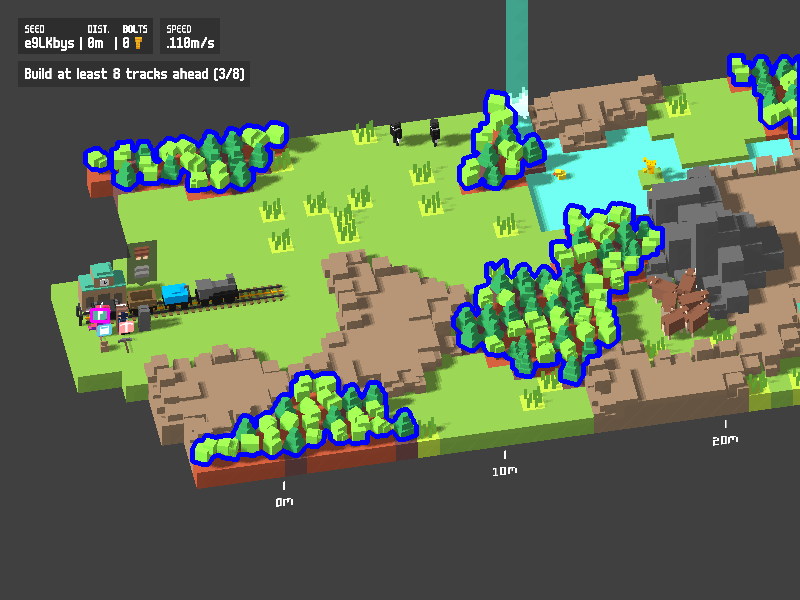
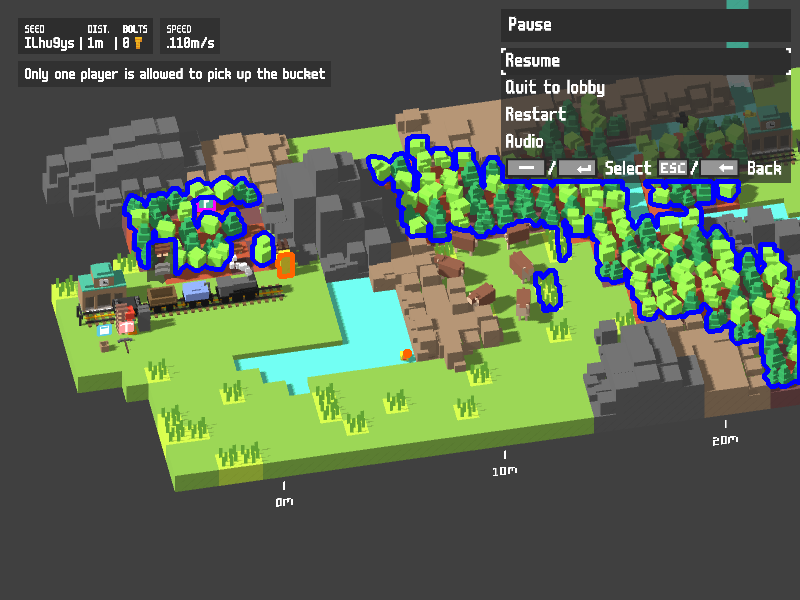
added player

diff --git a/src/debug.py b/src/debug.py
@@ -4,15 +4,17 @@ from capture import windowcapture
 import axe
 import trees
 import time
+import detectplayer
 
 # functions that allow you to work on a single screenshot instead of on the game
 
 # function that show the image
-def debug_show(path):
-    frame = cv2.imread(path, cv2.COLOR_RGB2BGR)
-    axe.draw_axe_countours(frame, cv2.cvtColor(frame, cv2.COLOR_BGR2GRAY))
-    trees.draw_trees_contours(frame, cv2.cvtColor(frame, cv2.COLOR_BGR2HSV))
-    cv2.imshow("frame", frame)
+
+def debug_show(im):
+    trees.draw_trees_contours(im, cv2.cvtColor(im, cv2.COLOR_BGR2HSV))
+    axe.draw_axe_countours(im, cv2.cvtColor(im, cv2.COLOR_BGR2GRAY))
+    detectplayer.draw_player(im, cv2.cvtColor(im, cv2.COLOR_BGR2HSV))
+    cv2.imshow("im", im)
     while True:
         k = cv2.waitKey(1) & 0xFF
         if k == 27:
@@ -20,8 +22,75 @@ def debug_show(path):
 
 
 # function that save the image
-def debug_save(path):
-    frame = cv2.imread(path, cv2.COLOR_RGB2BGR)
-    axe.draw_axe_countours(frame, cv2.cvtColor(frame, cv2.COLOR_BGR2GRAY))
-    trees.draw_trees_contours(frame, cv2.cvtColor(frame, cv2.COLOR_BGR2HSV))
-    cv2.imwrite("../data/img_masked.png", frame)
+
+def debug_save(im):
+    trees.draw_trees_contours(im, cv2.cvtColor(im, cv2.COLOR_BGR2HSV))
+    axe.draw_axe_countours(im, cv2.cvtColor(im, cv2.COLOR_BGR2GRAY))
+    detectplayer.draw_player(im, cv2.cvtColor(im, cv2.COLOR_BGR2HSV))
+    cv2.imwrite("../data/img_masked.png", im)
+
+
+# functions that take a single screnshot of the game to work on it
+
+def single_screenshot():
+    hwnd = win32gui.FindWindow(None, "Unrailed!")
+    if not hwnd:
+        raise Exception("Window not found!")
+
+    l, t, r, d = win32gui.GetClientRect(hwnd)
+    x, y = win32gui.ClientToScreen(hwnd, (l, t))
+    if win32gui.GetForegroundWindow() != hwnd:
+        win32gui.SetForegroundWindow(hwnd)
+        time.sleep(0.1)
+
+    return cv2.cvtColor(
+            np.asarray(pyautogui.screenshot(region=(
+            x, y,
+            *win32gui.ClientToScreen(hwnd,(r-x, d-y))
+            ))),
+            cv2.COLOR_RGB2BGR
+        )
+        
+def save_screenshot():
+    cv2.imwrite("../data/img_debug.png", single_screenshot())
+
+
+# functions to work on the image in BGR
+
+# function to get the pixel color
+
+def get_pixel_color(im, x, y):
+    rows, cols = im.shape[:-1]
+    if x < 0 and y < 0:
+        raise Exception("get pixel: coordinate need to be positive!")
+    if x < rows and y < cols:
+        return im[y,x]
+
+    raise Exception("get pixel: x and y out of range!")
+
+# function to set the pixel color
+
+def set_pixel_color(im, x, y, color):
+    rows, cols = im.shape[:-1]
+    if x < 0 and y < 0:
+        raise Exception("get pixel: coordinate need to be positive!")
+    if x < rows and y < cols:
+        im[y,x] = color
+        return im
+    raise Exception("get pixel: x and y out of range!")
+
+# function to set an area of pixels color
+
+def set_area_color(im, x, y, color, size):
+    half_size = size // 2
+    x_half, y_half = x - half_size, y - half_size
+    for i in range(size):
+        for j in range(size):
+            im = set_pixel_color(im, x_half + i, y_half + j, color)
+
+    return im
+
+
+# function to convert HSV percentage in 8bit value
+def convert_HSV(color):
+    return color * 255 / 100

diff --git a/src/detectplayer.py b/src/detectplayer.py
@@ -1,0 +1,32 @@
+import cv2
+import numpy as np
+
+# dark yellow in BGR : [33 148 163]
+# dark yellow in HSV : [54 80 64] in percentage
+# dark yellow in HSV : [54 200 163] in values
+
+# light yellow in BGR : [ 52 235 255]
+# light yellow in HSV : [ 54 80 100] in percentage
+# dark yellow in HSV : [54 200 255] in values
+
+# magic values for the player
+HSV_MIN_THRESH = np.array([24, 190, 150]) # Treshold values, colors in HSV
+HSV_MAX_THRESH = np.array([31, 210, 255])
+
+
+def draw_player(image, hsv_image, color=(0, 100, 255)): 
+    """Draws countours of trees found in image"""
+
+    h, w = image.shape[:-1] # remove last value because we don't need the channels
+    mask = cv2.inRange(hsv_image, HSV_MIN_THRESH, HSV_MAX_THRESH) # apply the mask with the treshold values on the hsv image and not BGR
+    
+    # get the locations of the trees then remove the grass
+
+    nb_components, output, stats, centroids = cv2.connectedComponentsWithStats(mask, 8, cv2.CV_32S)
+
+    dilated_mask = cv2.dilate(mask, np.ones((3, 3), np.uint8), iterations=2)
+
+    # get the contours then draw them
+
+    contours, hierarchy = cv2.findContours(dilated_mask, cv2.RETR_EXTERNAL, cv2.CHAIN_APPROX_NONE)
+    cv2.drawContours(image, contours, -1, color, 3)

diff --git a/src/main.py b/src/main.py
@@ -3,6 +3,7 @@ import numpy as np
 from capture import windowcapture
 import axe
 import trees
+import detectplayer
 import time
 import debug
 
@@ -10,22 +11,25 @@ ESC_KEY = 27
 
 FRAME_RATE = 10
 SLEEP_TIME = 1 / FRAME_RATE
-
-
-debug.debug_save("../data/img_2.png")  
-
-
 """
-windowcapture.save_screenshot()
+im = cv2.imread("../data/img_debug.png", cv2.COLOR_RGB2BGR)
+debug.debug_show(im)
 
+
+#print(debug.convert_HSV(64))
+
+
+
+windowcapture.save_screenshot()
+"""
 capture = windowcapture.WindowCapture("Unrailed!", FRAME_RATE) # We create the object WindowCapture that can capture the "Unrailed!"
 capture.start() # Function in capture that start recording
 
 while True:
     frame = capture.read()
-    axe.draw_axe_countours(frame, cv2.cvtColor(frame, cv2.COLOR_BGR2GRAY))
     trees.draw_trees_contours(frame, cv2.cvtColor(frame, cv2.COLOR_BGR2HSV))
-
+    axe.draw_axe_countours(frame, cv2.cvtColor(frame, cv2.COLOR_BGR2GRAY))
+    detectplayer.draw_player(frame, cv2.cvtColor(frame, cv2.COLOR_BGR2HSV))
     cv2.imshow("frame", frame)
 
     time.sleep(SLEEP_TIME)
@@ -35,4 +39,3 @@ while True:
         break
 
 cv2.destroyAllWindows()
-"""

diff --git a/src/capture/windowcapture.py b/src/capture/windowcapture.py
@@ -69,27 +69,5 @@ class WindowCapture:
         )
 
 
-# functions that take a single screnshot of the game to work on it
 
-def single_screenshot():
-    hwnd = win32gui.FindWindow(None, "Unrailed!")
-    if not hwnd:
-        raise Exception("Window not found!")
-
-    l, t, r, d = win32gui.GetClientRect(hwnd)
-    x, y = win32gui.ClientToScreen(hwnd, (l, t))
-    if win32gui.GetForegroundWindow() != hwnd:
-        win32gui.SetForegroundWindow(hwnd)
-        time.sleep(0.1)
-
-    return cv2.cvtColor(
-            np.asarray(pyautogui.screenshot(region=(
-            x, y,
-            *win32gui.ClientToScreen(hwnd,(r-x, d-y))
-            ))),
-            cv2.COLOR_RGB2BGR
-        )
-        
-def save_screenshot():
-    cv2.imwrite("../data/img_debug.png", single_screenshot())
 
